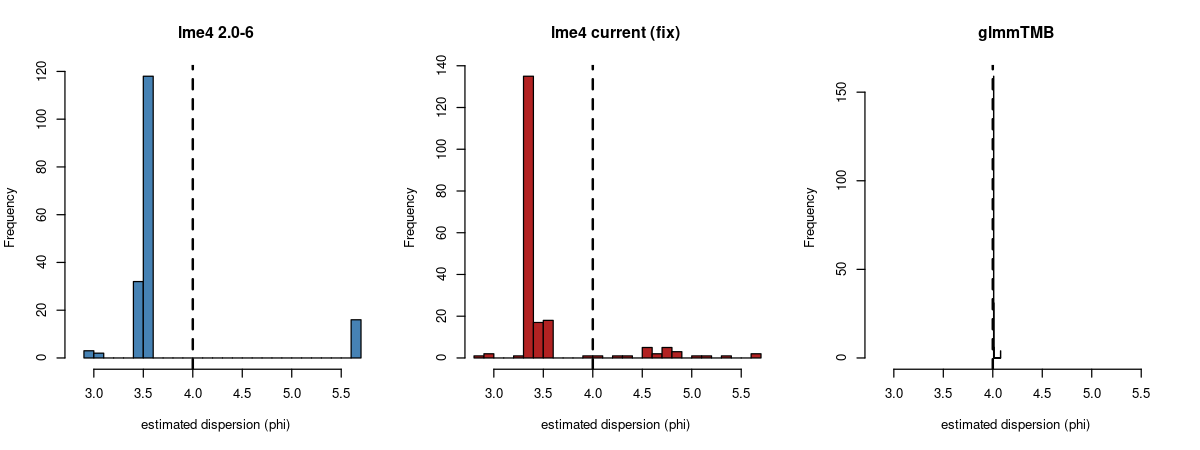
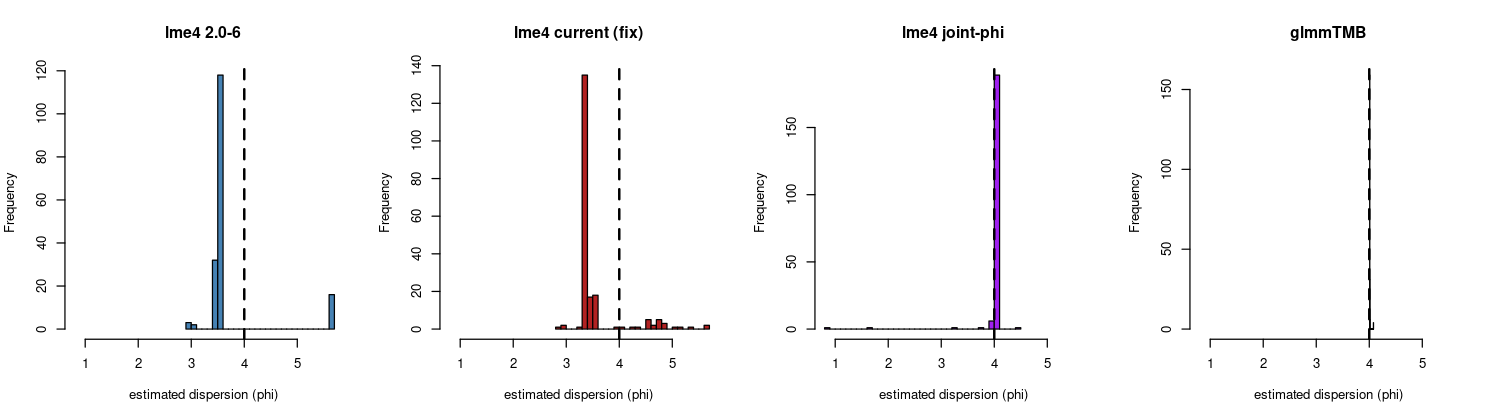
Add 4th multistart arm: phi as first-class optimized parameter
Confirms the hypothesis that jointly optimizing log(phi) alongside
theta/beta (rather than profiling it via a nested PIRLS fixed point)
gives materially better reliability on the same B=200 multistart
benchmark: 200/200 clean fits, dominant -2logLik plateau at 1329
(vs 1360 for the current fix, 1393 for old lme4, 1326 for glmmTMB),
and essentially unbiased dispersion recovery (median phi 4.01 vs
true 4, vs 3.3-3.5 for both fixed-point lme4 variants).

diff --git a/misc/README_Gamma_GLMMs.md b/misc/README_Gamma_GLMMs.md
@@ -671,18 +671,20 @@ one (presumably global) optimum regardless of starting point; multiple
 separated plateaus mean multiple genuinely distinct local optima exist —
 real multimodality, not an artifact of any one starting-value choice.
 
-Run for **lme4 2.0-6**, **current (dev, fix)**, and **glmmTMB**, all on the
-identical dataset, same random seed (20260730) generating the starting-point
-ensemble in each script (not numerically identical starting values across
-lme4 vs glmmTMB, which have different native theta parameterizations).
-Hypercubes: lme4 theta diagonal ~U(0,2), off-diagonal ~U(-1,1) (its native
-raw-Cholesky units); glmmTMB theta ~U(-2,2) (its native log-SD/unconstrained-
-corr units, default-initialized at 0); intercept `beta` ~U(0,4) for both
-(directly comparable — same units, the log-link intercept). Parallelized
-with `parallel::mclapply`, 10 cores each, all three run simultaneously (30
-of 32 cores). Scripts: `misc/GH643_multistart_lme4.R`,
-`misc/GH643_multistart_glmmTMB.R`, `misc/GH643_multistart_analysis.R`;
-plots: `misc/GH643_multistart_ecdf.png`, `misc/GH643_multistart_dispersion_hist.png`.
+Run for **lme4 2.0-6**, **current (dev, fix)**, **glmmTMB**, and (added
+below) **lme4 joint-phi**, all on the identical dataset, same random seed
+(20260730) generating the starting-point ensemble in each script (not
+numerically identical starting values across engines, which have different
+native theta parameterizations). Hypercubes: lme4 theta diagonal ~U(0,2),
+off-diagonal ~U(-1,1) (its native raw-Cholesky units); glmmTMB theta ~U(-2,2)
+(its native log-SD/unconstrained-corr units, default-initialized at 0);
+intercept `beta` ~U(0,4) for all (directly comparable — same units, the
+log-link intercept). Parallelized with `parallel::mclapply`, 10 cores each
+for the first three (30 of 32 cores simultaneously), 28 cores for the
+joint-phi arm (run afterward, alone). Scripts: `misc/GH643_multistart_lme4.R`,
+`misc/GH643_multistart_glmmTMB.R`, `misc/GH643_multistart_jointphi.R`,
+`misc/GH643_multistart_analysis.R`; plots: `misc/GH643_multistart_ecdf.png`,
+`misc/GH643_multistart_dispersion_hist.png`.
 
 ### Correction: `deviance()` is not `-2*logLik()` for these fits
 
@@ -738,7 +740,12 @@ separately, not folded into the multimodality question here.
 |---|---|---|---|---|---|
 | lme4 2.0-6 | 156 | 15 | — | 29 | **1393 (118)**, 1396 (32), 1385 (16), + small tail to ~1500 |
 | lme4 current (fix) | 161 | 37 | 2 | 0 | **1360 (131)**, 1393 (18), 1396 (17), + longer tail to ~1500 |
+| lme4 joint-phi | 200 | 0 | — | 0 | **1329 (158)**, 1332 (24), 1330 (2), + short tail to ~2745 |
 | glmmTMB | 0 | 200 | — | 0 | **1326 (190)**, 1328 (5), 1330 (2) |
+
+(lme4 joint-phi is discussed separately below — see "Fourth arm" — since it
+uses a different devfun/optimizer setup than the other two lme4 rows, not
+just a different profiling rule.)
 
 The picture is much less dramatic than the `deviance()`-based first pass,
 but a real, qualitative difference survives: **all three still show more
@@ -817,6 +824,63 @@ while both lme4 versions genuinely land on distinct, non-singular
 alternative solutions with fixed effects and dispersion shifting together
 with them.
 
+### Fourth arm: phi as a first-class optimized parameter, not a nested fixed point
+
+The working fix (§7-§9) profiles phi via a fixed-point iteration nested
+*inside* PIRLS, at each trial value of theta/beta the outer optimizer
+proposes. An alternative, tried earlier in this investigation as a
+prototype (`misc/GH643_pirls_joint_phi.R`, §7) before the C++ fix existed:
+put `log(phi)` directly in the parameter vector the *outer* nonlinear
+optimizer sees, alongside theta and beta, and let it get optimized jointly
+rather than profiled out at each outer step. The hypothesis: fixed-point
+profiling adds an extra layer of (possibly imperfectly converged, possibly
+locally-nonsmooth) nested optimization that the outer optimizer has to see
+through, and removing that nesting might make the overall likelihood
+surface better-behaved and more reliably optimized — matching, or getting
+closer to, glmmTMB's TMB-style joint optimization over all parameters
+(including dispersion) at once.
+
+Reran that prototype on the *same* target dataset and starting-point
+hypercube as the three arms above, switching its optimizer from
+`optim(method="Nelder-Mead")` to `minqa::bobyqa` (lme4's own default
+optimizer, for a fairer comparison), with explicit finite bounds
+(`log(phi)` bounded to `[log(1e-4), log(1e4)]`). Its devfun computes
+`-2*logLik` directly for a *given* phi (`aic_term(phi) + ‖u‖² + log|L|`,
+no internal phi re-estimation at all) — so unlike the real lme4 fits above,
+there's no `deviance()`-vs-`-2*logLik()` ambiguity to correct for here; the
+objective value returned by `bobyqa` *is* the comparable quantity by
+construction. Script: `misc/GH643_multistart_jointphi.R`.
+
+**Results: this comparison confirms the hypothesis.** All 200/200 starts
+converged "clean" (no errors, warnings, or sentinel hits — contrast both
+lme4 fixed-point variants above, which had 15-37 warnings and, for 2.0-6,
+29 outright errors). The dominant plateau is at **-2logLik ≈ 1329
+(158/200 = 79%)** — much closer to glmmTMB's dominant plateau (1326,
+190/200) than either fixed-point lme4 variant's dominant plateau (2.0-6:
+1393, 118/200; current fix: 1360, 131/200). Dispersion recovery
+(`misc/GH643_multistart_dispersion_hist.png`) is essentially unbiased at
+the mode — median phi = 4.014 against a true value of 4, matching
+glmmTMB's 4.009 — versus both fixed-point variants' persistent downward
+bias (2.0-6 median 3.51, current-fix median 3.32). The pairs plot
+(`misc/GH643_multistart_pairs_jointphi.png`) shows a tight dominant cluster
+(theta1 ≈ 0.5-0.6, theta4 ≈ 0.4, beta ≈ 1.9, sigma ≈ 2.0) with only a
+modest scatter of alternative-mode strays — visibly tighter than either
+fixed-point lme4 pairs plot, though not as uniformly tight as glmmTMB's.
+
+Caveat on scope: this is a standalone ~180-line R prototype validating the
+*idea*, not a drop-in replacement for the C++ fix. It reimplements PIRLS
+from scratch around a `phi`-parameterized weight matrix and calls
+`bobyqa` directly; it isn't wired into `mkGlmerDevfun`/`optimizeGlmer` or
+lme4's actual control-flow/optimizer-selection machinery, doesn't handle
+multiple families or non-Gamma links, and its convergence/bounds choices
+were hand-tuned for this one benchmark. Moving phi into the real outer
+parameter vector for `glmer()` would be a materially larger change (widens
+the parameter block the C++ optimizer interface exposes, changes what
+`theta` means to callers, touches `refitML`, profiling, and starting-value
+logic) than the nested-fixed-point fix already implemented — worth
+pursuing given how much better it performs here, but a separate,
+larger-scope follow-up, not a same-session swap-in.
+
 ### Scope/caveats
 
 Only one dataset has been tested this deeply. Worth checking whether the
@@ -824,7 +888,9 @@ degree of multimodality tracks how close the true structure is to the
 singular boundary, or is present more generally for Gamma GLMMs with
 multiple random-effect terms regardless of singularity. Also worth
 checking whether glmmTMB's much tighter clustering (in both -2logLik and
-dispersion) holds up on other datasets, or is specific to this one.
+dispersion) holds up on other datasets, or is specific to this one, and
+whether the joint-phi parameterization's advantage over the nested
+fixed-point fix persists there too.
 
 ## Practical takeaway (regardless of whether/when this gets fixed upstream)
 
